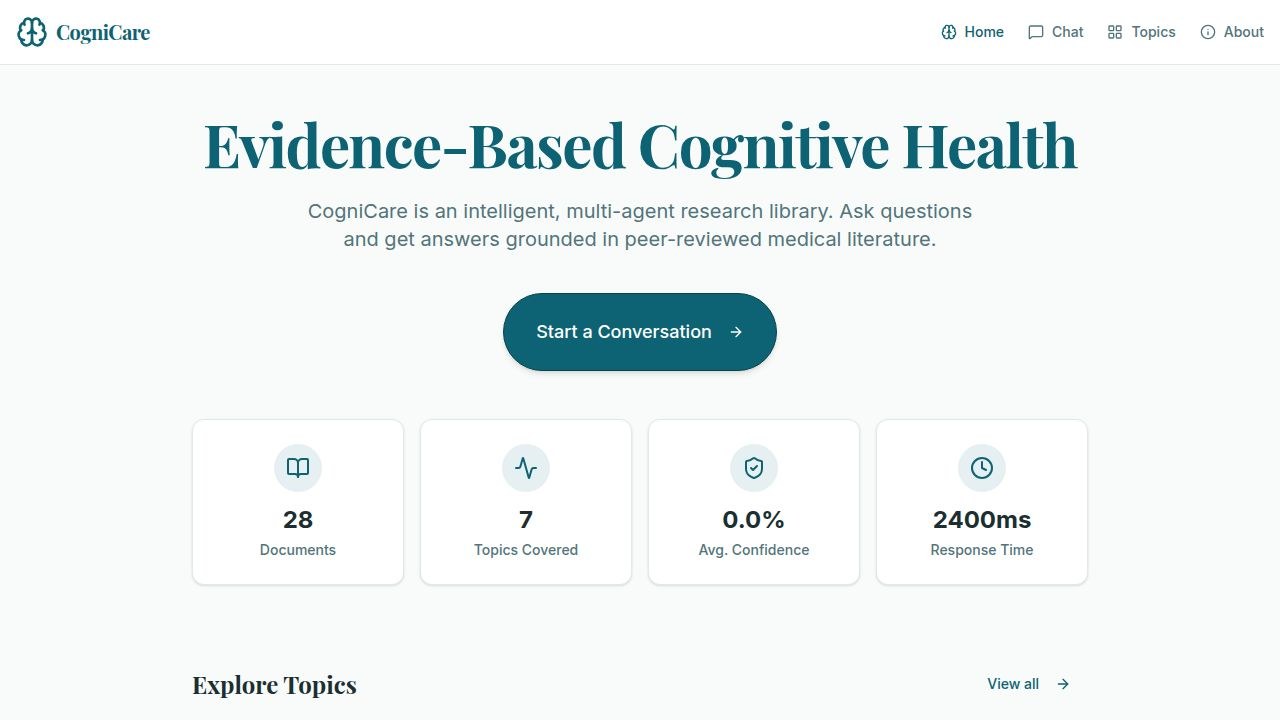
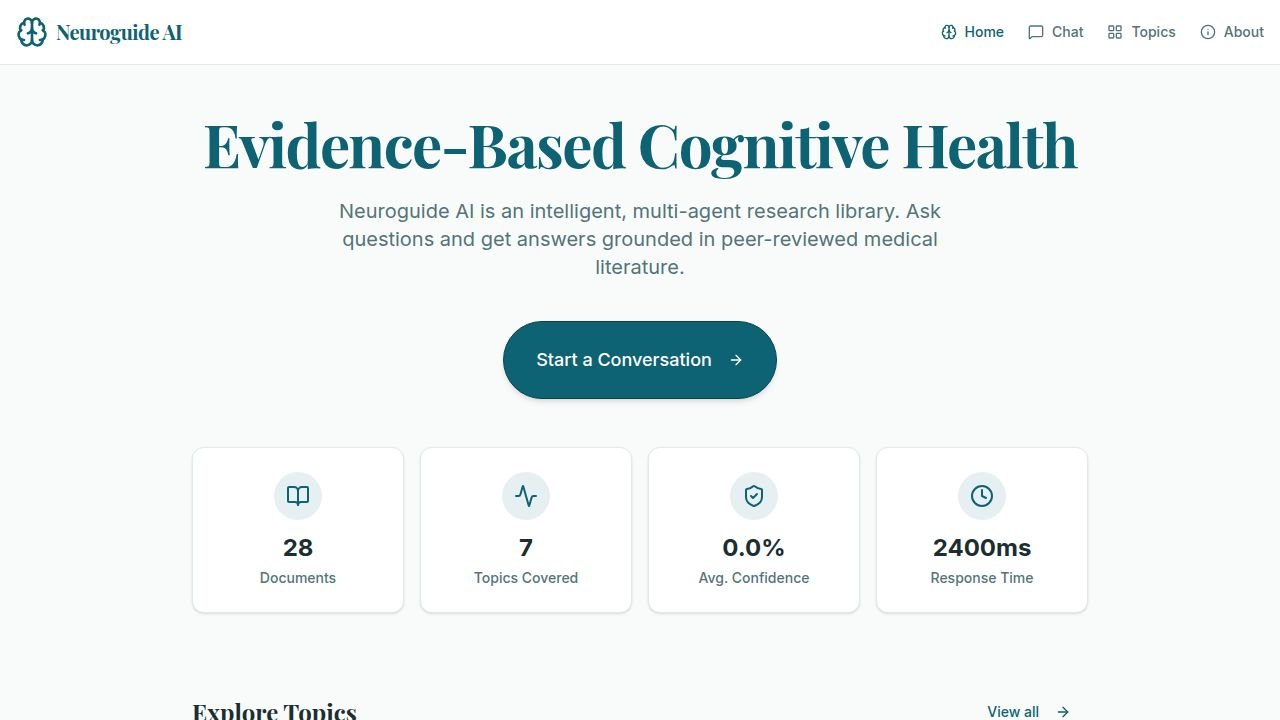
Add APOE4 genetic status to risk assessment and improve sidebar layout
Integrates APOE4 allele count into the risk assessment model and frontend, and fixes sidebar layout to ensure the Risk Profile panel is always visible.

Replit-Commit-Author: Agent
Replit-Commit-Session-Id: 7edd9256-e844-4080-ac46-085731c2dcad
Replit-Commit-Checkpoint-Type: full_checkpoint
Replit-Commit-Event-Id: 2eece3dd-ed83-4d78-97c2-193f2d496d56
Replit-Commit-Screenshot-Url: https://storage.googleapis.com/screenshot-production-us-central1/bfe365ec-f611-46bb-95da-7672ca29010a/7edd9256-e844-4080-ac46-085731c2dcad/Nj2rvUn
Replit-Helium-Checkpoint-Created: true

diff --git a/artifacts/cognicare/src/pages/chat.tsx b/artifacts/cognicare/src/pages/chat.tsx
@@ -17,6 +17,12 @@ import type { RiskResult, UserProfile } from "@/lib/api";
 
 // ── Risk factor definitions ────────────────────────────────────────────────
 
+const APOE4_OPTIONS = [
+  { value: 0, label: "No APOE ε4 alleles",         sublabel: "ε2/ε2, ε2/ε3, ε3/ε3" },
+  { value: 1, label: "1 APOE ε4 allele",           sublabel: "Heterozygous — ε3/ε4" },
+  { value: 2, label: "2 APOE ε4 alleles (4/4)",    sublabel: "Homozygous — ε4/ε4" },
+];
+
 const BINARY_FACTORS = [
   { key: "hypertension",        label: "Hypertension" },
   { key: "obesity",             label: "Obesity (BMI ≥ 30)" },
@@ -75,6 +81,7 @@ function RiskPanel({
   const [open, setOpen] = React.useState(false);
   const [age, setAge] = React.useState(65);
   const [edu, setEdu] = React.useState(12);
+  const [apoe4, setApoe4] = React.useState<0 | 1 | 2>(0);
   const [checked, setChecked] = React.useState<Record<string, boolean>>({});
   const [result, setResult] = React.useState<RiskResult | null>(() => {
     const saved = localStorage.getItem("riskResult");
@@ -87,9 +94,10 @@ function RiskPanel({
   React.useEffect(() => {
     const saved = localStorage.getItem("userProfile");
     if (saved) {
-      const p = JSON.parse(saved) as UserProfile;
+      const p = JSON.parse(saved) as UserProfile & { apoe4_alleles?: number };
       setAge(p.age);
       setEdu(p.education_years);
+      if (p.apoe4_alleles !== undefined) setApoe4(p.apoe4_alleles as 0 | 1 | 2);
       const c: Record<string, boolean> = {};
       p.risk_factors.forEach(k => { c[k] = true; });
       setChecked(c);
@@ -102,6 +110,7 @@ function RiskPanel({
     const input = {
       age,
       education_years: edu,
+      apoe4_alleles: apoe4,
       hypertension:        checked["hypertension"]        ?? false,
       obesity:             checked["obesity"]             ?? false,
       smoking:             checked["smoking"]             ?? false,
@@ -126,7 +135,7 @@ function RiskPanel({
           risk_factors: activeFactors,
           risk_category: res.risk_category,
         };
-        localStorage.setItem("userProfile", JSON.stringify(profile));
+        localStorage.setItem("userProfile", JSON.stringify({ ...profile, apoe4_alleles: apoe4 }));
         onProfileChange(profile);
       },
     });
@@ -178,9 +187,31 @@ function RiskPanel({
             </div>
           </div>
 
+          {/* APOE4 status */}
+          <div>
+            <p className="text-[10px] text-muted-foreground uppercase tracking-wide mb-2">APOE ε4 Status</p>
+            <div className="space-y-1">
+              {APOE4_OPTIONS.map(opt => (
+                <button
+                  key={opt.value}
+                  onClick={() => setApoe4(opt.value as 0 | 1 | 2)}
+                  className={cn(
+                    "w-full text-left px-2.5 py-1.5 rounded-md border text-xs transition-colors",
+                    apoe4 === opt.value
+                      ? "border-primary bg-primary/10 text-primary font-medium"
+                      : "border-muted bg-background text-muted-foreground hover:border-primary/50"
+                  )}
+                >
+                  <div className="font-medium leading-tight">{opt.label}</div>
+                  <div className="text-[10px] opacity-60 mt-0.5">{opt.sublabel}</div>
+                </button>
+              ))}
+            </div>
+          </div>
+
           {/* Risk factor checkboxes */}
           <div>
-            <p className="text-[10px] text-muted-foreground uppercase tracking-wide mb-2">Risk Factors</p>
+            <p className="text-[10px] text-muted-foreground uppercase tracking-wide mb-2">Modifiable Risk Factors</p>
             <div className="space-y-1.5 max-h-44 overflow-y-auto pr-1">
               {BINARY_FACTORS.map(f => (
                 <div key={f.key} className="flex items-center gap-2">
@@ -330,7 +361,7 @@ export function Chat() {
   return (
     <div className="flex-1 flex overflow-hidden bg-background">
       {/* ── Sidebar ── */}
-      <div className="w-64 border-r bg-card flex flex-col hidden md:flex">
+      <div className="w-64 border-r bg-card flex flex-col">
         {/* Sessions header */}
         <div className="p-4 border-b flex items-center justify-between">
           <h2 className="font-semibold text-lg text-primary" data-testid="text-sidebar-title">Sessions</h2>
@@ -344,8 +375,8 @@ export function Chat() {
           </Button>
         </div>
 
-        {/* Session list */}
-        <ScrollArea className="flex-1">
+        {/* Session list — capped so Risk Profile stays visible */}
+        <ScrollArea className="max-h-48 overflow-y-auto">
           <div className="p-2 space-y-1">
             {sessionsLoading ? (
               <div className="p-4 text-center text-sm text-muted-foreground">Loading…</div>

diff --git a/artifacts/cognicare/src/lib/api.ts b/artifacts/cognicare/src/lib/api.ts
@@ -25,6 +25,7 @@ export type RiskResult = {
 export type RiskInput = {
   age: number
   education_years: number
+  apoe4_alleles: 0 | 1 | 2
   hypertension: boolean
   obesity: boolean
   smoking: boolean

diff --git a/services/rag-api/agents/risk_model.py b/services/rag-api/agents/risk_model.py
@@ -3,7 +3,7 @@ Neural Network Risk Assessment Module
 ======================================
 Trains a Random Forest classifier on synthetic Alzheimer's educational
 risk data based on the 14 modifiable risk factors from the Lancet
-Commission on Dementia Prevention (2024).
+Commission on Dementia Prevention (2024) plus APOE4 genetic status.
 
 Uses SHAP TreeExplainer for feature attribution and XAI.
 """
@@ -17,6 +17,7 @@ from sklearn.model_selection import train_test_split
 FEATURES: list[dict] = [
     {"key": "age",              "label": "Age",                        "type": "numeric", "unit": "years"},
     {"key": "education_years",  "label": "Years of Education",         "type": "numeric", "unit": "years"},
+    {"key": "apoe4_alleles",    "label": "APOE ε4 Alleles",            "type": "numeric", "unit": "alleles (0/1/2)"},
     {"key": "hypertension",     "label": "Hypertension",               "type": "binary"},
     {"key": "obesity",          "label": "Obesity (BMI ≥ 30)",         "type": "binary"},
     {"key": "smoking",          "label": "Current / Former Smoker",    "type": "binary"},
@@ -40,12 +41,17 @@ FEATURE_LBLS = [f["label"] for f in FEATURES]
 def _generate_synthetic_data(n: int = 2000, seed: int = 42):
     """
     Synthetic training data whose risk-score weights approximate the
-    population-level effect sizes reported by the Lancet Commission 2024.
+    population-level effect sizes reported by the Lancet Commission 2024,
+    plus APOE4 genetic risk (Bellenguez et al. 2022, Nature Genetics).
     """
     rng = np.random.default_rng(seed)
 
     age  = rng.integers(45, 90, n).astype(float)
     edu  = rng.integers(8, 22,  n).astype(float)
+
+    # APOE4 allele count: 0, 1, or 2
+    # Approximate population frequencies: ~60% no allele, ~30% one allele, ~2-3% homozygous
+    apoe4 = rng.choice([0, 1, 2], n, p=[0.62, 0.35, 0.03]).astype(float)
 
     hypertension = rng.binomial(1, 0.45, n)
     obesity      = rng.binomial(1, 0.35, n)
@@ -63,6 +69,9 @@ def _generate_synthetic_data(n: int = 2000, seed: int = 42):
     score = (
           0.07 * (age - 60)
         - 0.12 * (edu - 12)
+        # APOE4: heterozygous ≈ +1.5, homozygous ≈ +3.5 (non-linear step)
+        + 1.50 * (apoe4 == 1).astype(float)
+        + 3.50 * (apoe4 == 2).astype(float)
         + 0.65 * hypertension
         + 0.45 * obesity
         + 0.55 * smoking
@@ -83,7 +92,7 @@ def _generate_synthetic_data(n: int = 2000, seed: int = 42):
     labels = np.where(score < lo, 0, np.where(score < hi, 1, 2))
 
     X = np.column_stack([
-        age, edu, hypertension, obesity, smoking, depression,
+        age, edu, apoe4, hypertension, obesity, smoking, depression,
         inactivity, diabetes, isolation, hearing, alcohol, tbi,
         cholesterol, vision,
     ])
@@ -94,7 +103,7 @@ class RiskAssessmentModel:
     """
     Random Forest classifier with SHAP TreeExplainer for XAI.
     Predicts educational risk category (Low / Moderate / High) from
-    14 modifiable lifestyle and demographic features.
+    15 features: age, education, APOE4 allele count, and 12 modifiable factors.
     """
 
     def __init__(self) -> None:
@@ -120,6 +129,7 @@ class RiskAssessmentModel:
         X = np.array([[
             float(features.get("age", 65)),
             float(features.get("education_years", 12)),
+            float(min(max(int(features.get("apoe4_alleles", 0)), 0), 2)),
             int(bool(features.get("hypertension",        False))),
             int(bool(features.get("obesity",             False))),
             int(bool(features.get("smoking",             False))),
@@ -173,8 +183,8 @@ class RiskAssessmentModel:
             "disclaimer": (
                 "This is an educational risk-estimation tool, not a clinical diagnostic instrument. "
                 "Categories are based on population-level modifiable risk factors identified by the "
-                "Lancet Commission on Dementia Prevention (2024). Consult a healthcare professional "
-                "for personalised medical advice."
+                "Lancet Commission on Dementia Prevention (2024) and APOE4 genetic epidemiology. "
+                "Consult a healthcare professional for personalised medical advice."
             ),
         }
 

diff --git a/services/rag-api/models.py b/services/rag-api/models.py
@@ -70,6 +70,7 @@ class Stats(BaseModel):
 class RiskInput(BaseModel):
     age: int = Field(..., ge=18, le=110)
     education_years: int = Field(..., ge=0, le=30)
+    apoe4_alleles: int = Field(0, ge=0, le=2)   # 0 = none, 1 = heterozygous, 2 = homozygous
     hypertension: bool = False
     obesity: bool = False
     smoking: bool = False